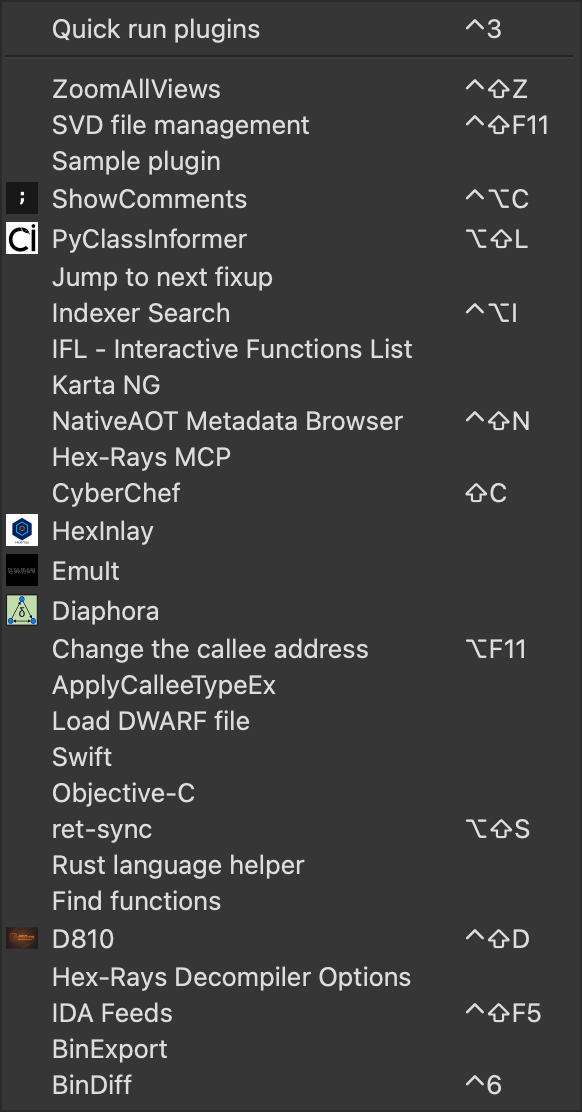
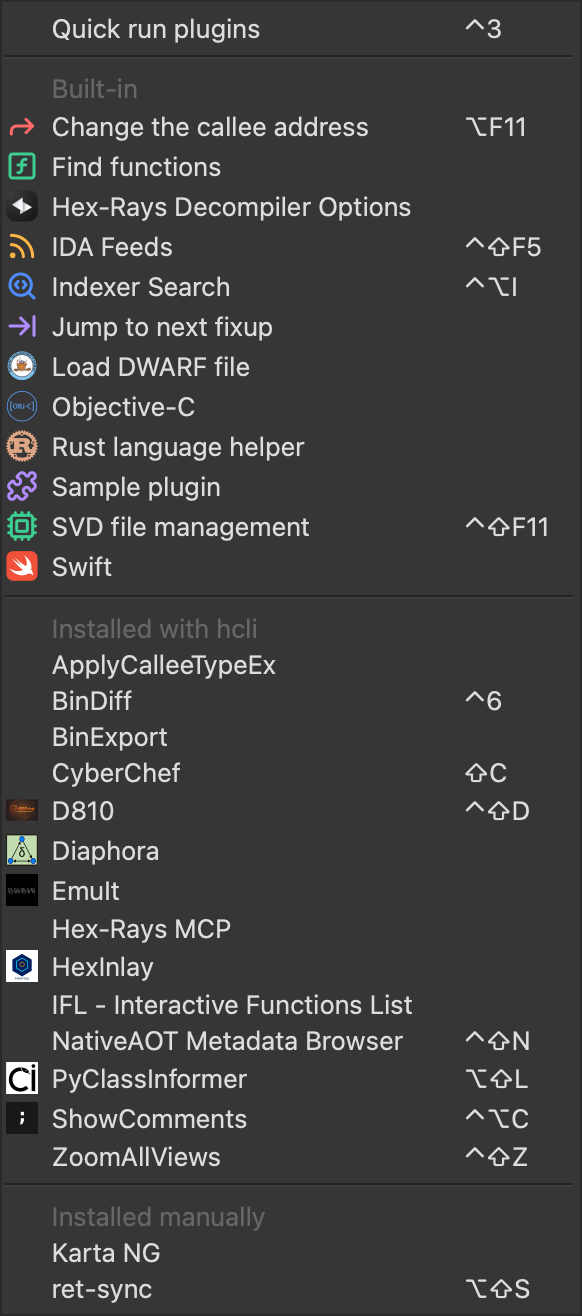
Group the plugins menu into built-in, hcli and manually installed plugins

diff --git a/plugin_icons.py b/plugin_icons.py
@@ -1,12 +1,16 @@
-"""Plugin Icons: give plugins' entries in IDA's Edit > Plugins menu an icon.
+"""Plugin Icons: icons and groups for IDA's Edit > Plugins menu.
 
-For every entry without an icon, the icon is, in order:
+Icons: every entry without an icon gets, in order,
 1. an image you put in <IDA user directory>/plugin-icons/, named after the
    menu entry, e.g. "Diaphora.png" (an empty "Diaphora.none" leaves that
    entry without an icon);
 2. the logo the plugin declares in its ida-plugin.json ("logoPath").
-
 Icons a plugin sets itself are left alone.
+
+Groups: the entries are sorted into IDA's own plugins, plugins installed with
+hcli (those with an ida-plugin.json) and plugins installed manually, each
+under a header. Turn this off with {"group_menu": false} in
+<IDA user directory>/plugin-icons/settings.json.
 """
 
 import ctypes
@@ -19,16 +23,21 @@ import ida_idaapi
 import ida_kernwin
 
 try:
-    from PySide6 import QtCore, QtGui  # IDA 9.2+
+    from PySide6 import QtCore, QtGui, QtWidgets  # IDA 9.2+
 except ImportError:
-    from PyQt5 import QtCore, QtGui  # IDA 9.0 and 9.1
+    from PyQt5 import QtCore, QtGui, QtWidgets  # IDA 9.0 and 9.1
 
 PLUGIN_NAME = "Plugin Icons"
 MENU_PREFIX = "Edit/Plugins/"
-USER_ICONS_DIR = "plugin-icons"
+USER_DIR = "plugin-icons"
 IMAGE_EXTENSIONS = (".png", ".jpg", ".jpeg", ".gif", ".bmp")
 DISABLED_EXTENSION = ".none"
+SETTINGS_FILE = "settings.json"
+DEFAULT_SETTINGS = {"group_menu": True}
 ICON_SIZE = 64  # rendered square; Qt scales it down to the menu's size
+
+BUILTIN, HCLI, MANUAL = "Built-in", "Installed with hcli", "Installed manually"
+GROUPS = (BUILTIN, HCLI, MANUAL)
 
 
 class _PluginInfo(ctypes.Structure):
@@ -66,31 +75,19 @@ def _plugin_paths():
     return paths
 
 
-def _declared_logo(plugin_file):
-    """The logo from the ida-plugin.json of the plugin folder holding plugin_file.
+def _plugin_folder(plugin_file):
+    """The folder with the ida-plugin.json of the plugin holding plugin_file.
 
     Looks in the file's folder and the folders above it, up to the plugins
     folder itself. A plugin directly in the plugins folder (an old-style
-    single-file plugin, or one of IDA's own) has no ida-plugin.json.
+    single-file plugin, or one of IDA's own) has none.
     """
     folder = os.path.dirname(os.path.abspath(plugin_file))
     for _ in range(4):
         if os.path.basename(folder) == "plugins":
             return None
-        metadata = os.path.join(folder, "ida-plugin.json")
-        if os.path.isfile(metadata):
-            try:
-                with open(metadata, encoding="utf-8") as f:
-                    logo = json.load(f).get("plugin", {}).get("logoPath")
-            except (OSError, ValueError, AttributeError):
-                return None
-            if not isinstance(logo, str) or not logo:
-                return None
-            path = os.path.normpath(os.path.join(folder, logo))
-            # only files inside the plugin's own folder
-            if os.path.commonpath([path, folder]) != folder or not os.path.isfile(path):
-                return None
-            return path
+        if os.path.isfile(os.path.join(folder, "ida-plugin.json")):
+            return folder
         parent = os.path.dirname(folder)
         if parent == folder:
             return None
@@ -98,9 +95,52 @@ def _declared_logo(plugin_file):
     return None
 
 
+def _declared_logo(plugin_file):
+    """The logo ("logoPath") from the plugin's ida-plugin.json, if any."""
+    folder = _plugin_folder(plugin_file)
+    if folder is None:
+        return None
+    try:
+        with open(os.path.join(folder, "ida-plugin.json"), encoding="utf-8") as f:
+            logo = json.load(f).get("plugin", {}).get("logoPath")
+    except (OSError, ValueError, AttributeError):
+        return None
+    if not isinstance(logo, str) or not logo:
+        return None
+    path = os.path.normpath(os.path.join(folder, logo))
+    # only files inside the plugin's own folder
+    if os.path.commonpath([path, folder]) != folder or not os.path.isfile(path):
+        return None
+    return path
+
+
+def _group(plugin_file):
+    """BUILTIN, HCLI or MANUAL for the plugin in plugin_file."""
+    builtin = os.path.realpath(ida_diskio.idadir("plugins"))
+    try:
+        if os.path.commonpath([os.path.realpath(plugin_file), builtin]) == builtin:
+            return BUILTIN
+    except ValueError:  # e.g. on different drives
+        pass
+    # hcli installs plugins as folders described by an ida-plugin.json
+    return HCLI if _plugin_folder(plugin_file) else MANUAL
+
+
+def _settings():
+    """DEFAULT_SETTINGS, updated from plugin-icons/settings.json if it exists."""
+    settings = dict(DEFAULT_SETTINGS)
+    path = os.path.join(ida_diskio.get_user_idadir(), USER_DIR, SETTINGS_FILE)
+    try:
+        with open(path, encoding="utf-8") as f:
+            settings.update({k: v for k, v in json.load(f).items() if k in DEFAULT_SETTINGS})
+    except (OSError, ValueError, AttributeError):
+        pass
+    return settings
+
+
 def _user_icon(menu_name):
     """(path, disabled) for the user's own icon for menu_name."""
-    folder = os.path.join(ida_diskio.get_user_idadir(), USER_ICONS_DIR)
+    folder = os.path.join(ida_diskio.get_user_idadir(), USER_DIR)
     base = os.path.join(folder, menu_name.replace("/", "_").replace("\\", "_"))
     if os.path.exists(base + DISABLED_EXTENSION):
         return None, True
@@ -138,12 +178,20 @@ def _square_png(path):
     return bytes(data)
 
 
+def _menu_name(action):
+    return action.text().replace("&", "")
+
+
 class _MenuIcons(ida_kernwin.UI_Hooks):
     def __init__(self):
         super().__init__()
         self._icons = {}  # image path -> icon id (None if it can't be loaded)
         self._set = {}  # action name -> icon id set by this plugin
         self._seen = None  # the plugin actions handled last time
+        self._groups = {}  # menu name -> group, when grouping the menu
+        self._added = {}  # id(menu) -> the headers and separators added to it
+        self._connected = set()  # ids of the menus regrouped before each opening
+        self._menu_retries = 100  # updates to wait for the menu to exist
 
     def updated_actions(self):
         # called whenever IDA updates its actions: only act when the set of
@@ -152,12 +200,20 @@ class _MenuIcons(ida_kernwin.UI_Hooks):
             name for name in ida_kernwin.get_registered_actions() if name.startswith(MENU_PREFIX)
         )
         if actions == self._seen:
+            if self._groups and not self._added and self._menu_retries > 0:
+                self._menu_retries -= 1
+                self._group_menus()  # the menu didn't exist yet last time
             return
         self._seen = actions
         self.apply(actions)
 
     def apply(self, actions):
-        plugin_paths = None
+        plugin_paths = _plugin_paths()
+        names = {action[len(MENU_PREFIX):] for action in actions}
+        if _settings()["group_menu"] and plugin_paths:
+            self._groups = {name: _group(plugin_paths[name]) for name in names if name in plugin_paths}
+            self._group_menus()
+
         for action in sorted(actions):
             ok, current = ida_kernwin.get_action_icon(action)
             if ok and current not in (-1, 0, self._set.get(action)):
@@ -168,8 +224,6 @@ class _MenuIcons(ida_kernwin.UI_Hooks):
             if disabled:
                 continue
             if image is None:
-                if plugin_paths is None:
-                    plugin_paths = _plugin_paths()
                 plugin_file = plugin_paths.get(menu_name)
                 image = plugin_file and _declared_logo(plugin_file)
             if not image:
@@ -183,6 +237,65 @@ class _MenuIcons(ida_kernwin.UI_Hooks):
             if icon is not None and ida_kernwin.update_action_icon(action, icon):
                 self._set[action] = icon
 
+    def _group_menus(self):
+        """Group the entries of every menu listing the plugins."""
+        app = QtWidgets.QApplication.instance()
+        if app is None or not self._groups:
+            return
+        for widget in app.allWidgets():
+            try:
+                if not isinstance(widget, QtWidgets.QMenu):
+                    continue
+                if not any(_menu_name(a) in self._groups for a in widget.actions()):
+                    continue
+                if id(widget) not in self._connected:
+                    # IDA may rebuild the items: group again before each opening
+                    self._connected.add(id(widget))
+                    widget.aboutToShow.connect(lambda menu=widget: self._group(menu))
+                self._group(widget)
+            except RuntimeError:  # a widget Qt has deleted meanwhile
+                continue
+
+    def _group(self, menu):
+        """Reorder menu's plugin entries into the groups, each under a header.
+
+        Entries that aren't plugins (e.g. "Quick run plugins") stay first, in
+        their order; the plugin entries follow, alphabetically per group.
+        """
+        try:
+            for added in self._added.pop(id(menu), []):
+                menu.removeAction(added)
+
+            others, grouped = [], {group: [] for group in GROUPS}
+            for action in menu.actions():
+                group = self._groups.get(_menu_name(action))
+                if group is None:
+                    others.append(action)
+                else:
+                    grouped[group].append(action)
+            for action in menu.actions():
+                if self._groups.get(_menu_name(action)):
+                    menu.removeAction(action)
+
+            # a separator before each header, reusing one the menu already ends with
+            separate = bool(others) and not others[-1].isSeparator()
+            added = []
+            for group in GROUPS:
+                if not grouped[group]:
+                    continue
+                if separate:
+                    added.append(menu.addSeparator())
+                separate = True
+                header = QtGui.QAction(group, menu) if hasattr(QtGui, "QAction") else QtWidgets.QAction(group, menu)
+                header.setEnabled(False)
+                menu.addAction(header)
+                added.append(header)
+                for action in sorted(grouped[group], key=lambda a: _menu_name(a).casefold()):
+                    menu.addAction(action)
+            self._added[id(menu)] = added
+        except RuntimeError:  # the menu was deleted
+            self._added.pop(id(menu), None)
+
     def free(self):
         for icon in self._icons.values():
             if icon is not None:
@@ -192,7 +305,7 @@ class _MenuIcons(ida_kernwin.UI_Hooks):
 
 class PluginIcons(ida_idaapi.plugin_t):
     flags = ida_idaapi.PLUGIN_FIX | ida_idaapi.PLUGIN_HIDE
-    comment = "Icons for the entries in Edit > Plugins"
+    comment = "Icons and groups for the entries in Edit > Plugins"
     help = "Uses each plugin's logo, or your own images in <IDA user directory>/plugin-icons/"
     wanted_name = PLUGIN_NAME
     wanted_hotkey = ""

diff --git a/README.md b/README.md
@@ -1,10 +1,11 @@
 # Plugin Icons
 
-An IDA Pro plugin that gives the entries in **Edit › Plugins** an icon.
+An IDA Pro plugin that makes **Edit › Plugins** easier to scan:
 
-Most plugins never set one, so the menu is a long column of plain text. Plugin Icons uses the logo each plugin already declares in its `ida-plugin.json`, the one shown in the plugin repository, or an image you choose.
+- **Icons**: most plugins never set one, so the menu is a long column of plain text. Plugin Icons uses the logo each plugin already declares in its `ida-plugin.json` (the one shown in the plugin repository), or an image you choose.
+- **Groups**: the entries are sorted into IDA's built-in plugins, plugins installed with hcli, and plugins installed manually, each under a header.
 
-![Edit › Plugins with icons](images/menu.png)
+![Edit › Plugins with icons and groups](images/menu.png)
 
 ## Install
 
@@ -31,11 +32,29 @@ Images are padded to a square and scaled down, so a wide logo is shown whole but
 
 Icons that a plugin sets itself are never replaced, and nothing in the plugins is changed.
 
+## Groups
+
+| Group | Plugins |
+|---|---|
+| Built-in | the plugin file is in IDA's own `plugins` folder |
+| Installed with hcli | the plugin is a folder with an `ida-plugin.json` (what hcli installs) |
+| Installed manually | everything else, e.g. single-file plugins copied into the plugins folder |
+
+Entries that aren't plugins (*Quick run plugins*) stay at the top. Within each group, entries are alphabetical.
+
+To keep IDA's own order instead, put this in `<IDA user directory>/plugin-icons/settings.json`:
+
+```json
+{"group_menu": false}
+```
+
 ## How it works
 
 IDA creates an action for each plugin in the menu, `Edit/Plugins/<name>`. Plugin Icons watches for these actions and sets their icon with `update_action_icon()`. To find the plugin behind an entry, it reads IDA's list of plugins (the SDK's `get_plugins()`, called through `ctypes`, as IDAPython doesn't expose it), which gives each plugin's file. Its `ida-plugin.json` is in that file's folder or a folder above it.
 
-If that list can't be read, only your own images are used.
+The groups are made by reordering the menu's items with Qt and adding the headers. As IDA may rebuild the menu, this is done again each time it opens.
+
+If IDA's list of plugins can't be read, only your own images are used, and the menu isn't grouped.
 
 ## License
 
